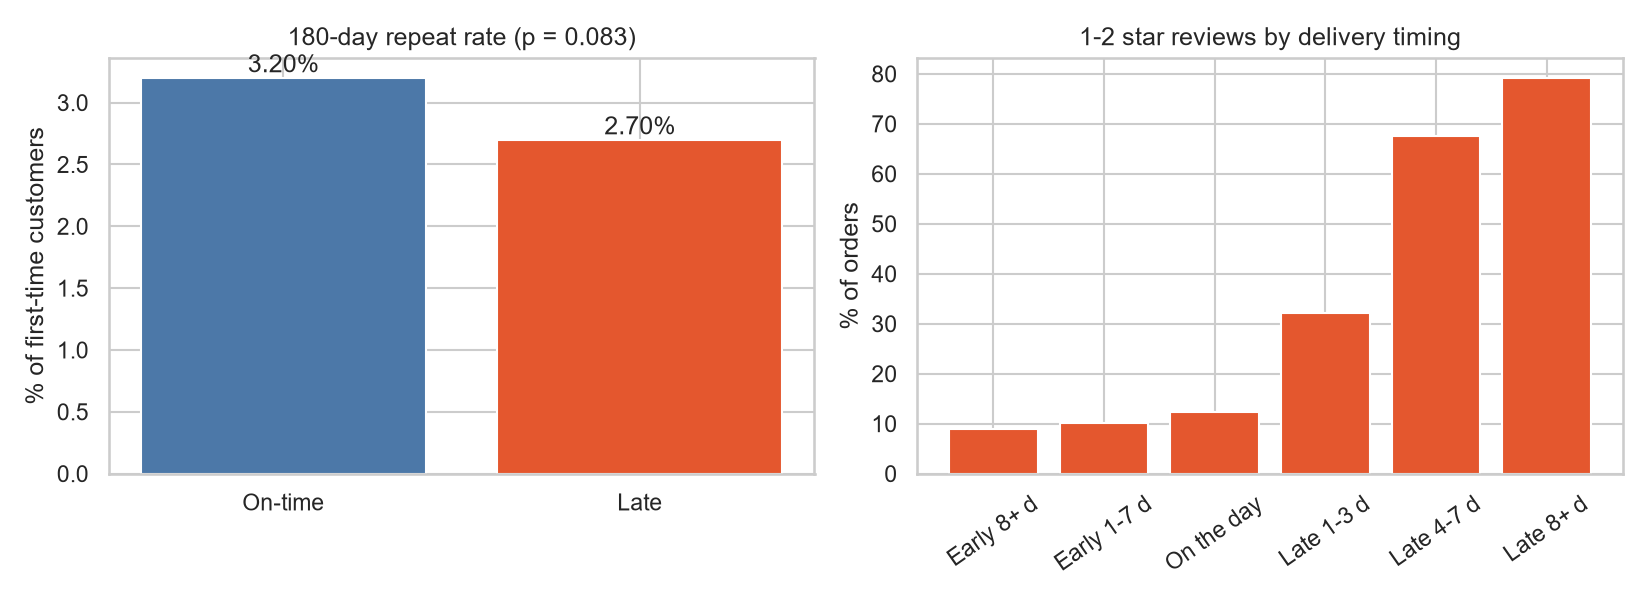
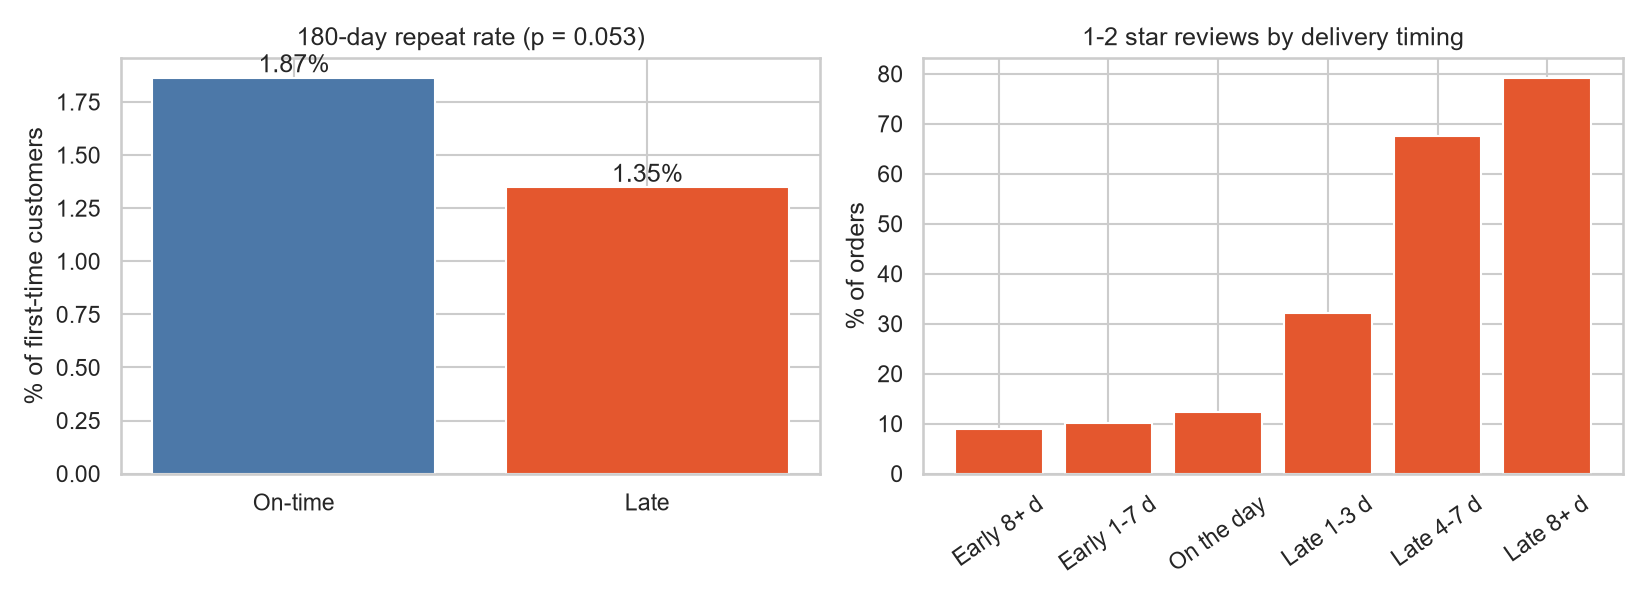
Fix repeat-purchase outcome: measure from first delivery; add convergence check and caveats

diff --git a/notebooks/04_delivery_impact.py b/notebooks/04_delivery_impact.py
@@ -16,7 +16,7 @@
 # %%
 import os, json, pathlib, numpy as np, pandas as pd, matplotlib; matplotlib.use("Agg")
 import matplotlib.pyplot as plt, seaborn as sns, scipy.stats as st
-import statsmodels.api as sm, statsmodels.formula.api as smf
+import statsmodels.formula.api as smf
 from statsmodels.stats.proportion import proportions_ztest, confint_proportions_2indep
 
 ROOT = pathlib.Path(__file__).resolve().parents[1]
@@ -56,9 +56,19 @@ def fmt_p(p):
 # %%
 rev = load("mart_delivery_reviews")
 rep = load("mart_delivery_repeat")
+def to_bool(s: pd.Series) -> pd.Series:
+    """Accept real booleans or 'true'/'false' text (CSV round trips); refuse anything else instead of guessing."""
+    if s.dtype == bool or str(s.dtype) == "boolean":
+        return s.astype(bool)
+    mapped = s.astype(str).str.strip().str.lower().map({"true": True, "false": False})
+    if mapped.isna().any():
+        raise ValueError(f"column {s.name!r} has values that are not true/false")
+    return mapped.astype(bool)
+
+
 for df, cols in ((rev, ["is_late", "is_low_review"]), (rep, ["is_late", "repeat_180d"])):
     for c in cols:
-        df[c] = df[c].astype(bool)
+        df[c] = to_bool(df[c])
 
 assert rep["customer_unique_id"].is_unique, "repeat table must have one row per person"
 assert rev["review_score"].between(1, 5).all(), "review scores must be 1-5"
@@ -124,14 +134,15 @@ print(f"Adjusted odds ratio for late delivery: {orr:.2f} (95% CI {olo:.2f}-{ohi:
 
 # Sensitivity: lateness clusters in a few bad months (e.g. Mar 2018), so also control for purchase month.
 m["purchase_month"] = pd.to_datetime(m.purchased_at).dt.strftime("%Y-%m")
-logit_m = smf.logit("y ~ late_i + log_value + C(state_grp) + C(purchase_month)", data=m).fit(disp=0)
+# BFGS, not Newton: one month has zero repeat events, which stops Newton's method from converging.
+logit_m = smf.logit("y ~ late_i + log_value + C(state_grp) + C(purchase_month)", data=m).fit(disp=0, method="bfgs", maxiter=2000)
+assert logit.mle_retvals["converged"] and logit_m.mle_retvals["converged"], "logistic regression did not converge"
 orr_m = float(np.exp(logit_m.params["late_i"])); mlo, mhi = np.exp(logit_m.conf_int().loc["late_i"])
 out["logit_adjusted_month"] = dict(odds_ratio_late=orr_m, ci_low=float(mlo), ci_high=float(mhi), p=float(logit_m.pvalues["late_i"]))
 print(f"Adjusted OR incl. purchase month: {orr_m:.2f} (95% CI {mlo:.2f}-{mhi:.2f}) | {fmt_p(logit_m.pvalues['late_i'])}")
 
 # Power: smallest repeat-rate gap this sample could detect (80% power, alpha 5%, two-sided).
 from statsmodels.stats.power import NormalIndPower
-from statsmodels.stats.proportion import proportion_effectsize
 p_base = t2["rate_a"]
 h = NormalIndPower().solve_power(effect_size=None, nobs1=len(lt), ratio=len(ot) / len(lt), alpha=ALPHA, power=0.8, alternative="two-sided")
 p_detect = float(np.sin((2 * np.arcsin(np.sqrt(p_base)) - h) / 2) ** 2)
@@ -205,6 +216,7 @@ Source: notebooks/04_delivery_impact.py. Do not edit by hand, re-run instead.
 - Minimum detectable repeat-rate gap (80% power): {(p_base - p_detect)*100:.2f} pp
 - Low-review share: late {t1['rate_a']:.1%} vs on-time {t1['rate_b']:.1%}, {fmt_p(t1['p'])}
 - Revenue at stake: R${est:,.0f} over {months:.1f} months (range R${low:,.0f} to R${high:,.0f}); all amounts in Brazilian reais.
+  {"Observational data: an association, not proven causation." if sig else "NOT SIGNIFICANT (the CI of the gap includes 0): illustration only, do NOT put this figure on the resume as a finding."}
 
 ## Draft resume bullet (check it against the numbers above before using)
 {line}

diff --git a/scripts/load_raw.py b/scripts/load_raw.py
@@ -60,7 +60,8 @@ def main() -> None:
         # dtype=str keeps the raw layer faithful (no silent type guessing);
         # utf-8-sig strips a byte-order mark if a header has one;
         # pandas handles the multi-line quoted text in the reviews file.
-        df = pd.read_csv(path, dtype=str, encoding="utf-8-sig")
+        # keep_default_na=False: text such as "NA" or "null" stays as text; only truly empty cells become NULL.
+        df = pd.read_csv(path, dtype=str, encoding="utf-8-sig", keep_default_na=False, na_values=[""])
         df.columns = [c.strip() for c in df.columns]
 
         job_config = bigquery.LoadJobConfig(

diff --git a/memo.md b/memo.md
@@ -3,32 +3,32 @@
 **To:** Olist operations and growth leads  **From:** Arya Shah  **Data:** Olist orders, Jan 2017 to Aug 2018 (R$)
 
 ## Bottom line
-Late delivery strongly damages reviews (62.4% of late orders get 1-2 stars vs 9.2% on-time), but I found **no statistically significant effect on repeat purchase** (2.70% vs 3.20%, p = 0.083). The revenue at stake is small and not distinguishable from zero (R$2,392, range R$0 to R$4,718 over 13.9 months).
+Late delivery strongly damages reviews (62.4% of late orders get 1-2 stars vs 9.2% on-time). Its effect on repeat purchase is **borderline and not statistically significant at the 5% level**: 1.35% of late-delivered customers order again within 180 days of delivery vs 1.87% of on-time ones (p = 0.053). The revenue at stake is small and not distinguishable from zero (R$1,658, range R$0 to R$2,919 over 13.8 months).
 
 ## What I found
 | Question | Result |
 |---|---|
 | Share of delivered orders that arrive late | 6.77% (`01_data_checks`, check 14) |
 | Late vs on-time: 1-2 star reviews | 62.40% vs 9.25% (gap +53.15 pp, 95% CI +51.94 to +54.35), p < 0.001; mean score 2.27 vs 4.29 |
-| Repeat purchase within 180 days: on-time vs late | 3.20% vs 2.70% (gap 0.50 pp, 95% CI -0.07 to 0.99), p = 0.083 |
-| Holds inside the largest state (SP)? After adjustment? | SP only: gap 0.89 pp, p = 0.137. Adjusted odds ratio for late 0.86 (95% CI 0.70 to 1.05), p = 0.137; also controlling for purchase month 0.86 (0.70 to 1.06), p = 0.155. The result stays non-significant in every check. |
-| Does a longer delay hurt more? | For reviews, yes: 1-2 star share rises from 32.1% (1-3 days late) to 67.6% (4-7 days) to 79.3% (8+ days). For repeat purchase there is no clean pattern (3.18%, 2.15%, 2.74%). |
-| Was the test able to detect a gap? | Only gaps of about 0.77 pp or more (80% power). The observed 0.50 pp gap is below that, so "not significant" means "cannot tell", not "no effect". |
+| Repeat purchase within 180 days of first delivery: on-time vs late | 1.87% (926 of 49,642) vs 1.35% (36 of 2,668); gap 0.52 pp, 95% CI -0.01 to 0.91, p = 0.053 |
+| Holds inside the largest state (SP)? After adjustment? | SP only: gap 0.59 pp, p = 0.270. Adjusted odds ratio for late 0.74 (95% CI 0.53 to 1.04), p = 0.079; also controlling for purchase month 0.78 (0.56 to 1.10), p = 0.156. The direction is consistent (late customers repeat less) but no check reaches significance. |
+| Does a longer delay hurt more? | Reviews: yes, 1-2 star share rises from 32.1% (1-3 days late) to 67.6% (4-7) to 79.3% (8+). Repeat rate also falls with lateness (1.52%, 1.37%, 1.22% vs about 1.87% for on-time or early), though this is descriptive and not tested for trend. |
+| Was the test able to detect a gap? | Only gaps of about 0.68 pp or more (80% power). The observed 0.52 pp gap is below that, so "not significant" means "cannot tell", not "no effect". |
 
-Context: only 3.04% of customers ever ordered a second time (2,887 of 94,990), and 6.99% of the 56,154 first-time customers in the test received a late first order (3,924 people).
+Context: 3.04% of customers ever placed a second order (2,887 of 94,990). In the repeat test, 5.10% of the 52,310 first-time customers (2,668 people) received a late first delivery.
 
 ## What it is worth
-Late first-time customers 3,924 x repeat gap 0.50 pp x average repeat order R$121.47 = **R$2,392** over 13.9 months (range R$0 to R$4,718; the lower bound is floored at zero because the CI includes zero).
+Late first-time customers 2,668 x repeat gap 0.52 pp x average repeat order R$120.40 = **R$1,658** over 13.8 months (range R$0 to R$2,919; the lower bound is floored at zero because the CI includes zero).
 
 Caveat: this is observational data, so the gap is an association, not proof that lateness caused it. The gap is also not statistically significant, so treat this figure as an upper-end illustration, not a finding.
 
 ## Recommendations
 1. **Fix the delivery promise where it is breaking.** Action: review carrier performance and estimate accuracy in the worst months (on-time rate fell to 81.0% in March 2018, 85.9% in February 2018 and 87.6% in November 2017, against 93% to 99% in most other months). Metric: monthly on-time rate and the share of 1-2 star reviews. Supported by: the review test (p < 0.001) and the monthly funnel.
 2. **Intervene on orders that are 4 or more days late.** Action: proactive messaging or a goodwill gesture for these orders before the customer reviews. Metric: 1-2 star share among late orders. Supported by: dose-response (32.1% at 1-3 days late, 67.6% at 4-7, 79.3% at 8+).
-3. **Do not justify retention spend on delivery alone; test it.** Action: run a randomised test of a goodwill gesture on late orders and measure 180-day repeat purchase. Metric: repeat rate. Supported by: the non-significant repeat result (p = 0.083), an underpowered observational test (minimum detectable gap 0.77 pp), and the low baseline repeat rate (3.04% of customers).
+3. **Do not justify retention spend on delivery alone; test it.** Action: run a randomised test of a goodwill gesture on late orders and measure 180-day repeat purchase. Metric: repeat rate. Supported by: the borderline, non-significant repeat result (p = 0.053), an underpowered observational test (minimum detectable gap 0.68 pp), and the very low baseline repeat rate (1.84% within 180 days of delivery).
 
 ## Method, in four lines
 - Customer = `customer_unique_id`. Late = delivered on a later calendar day than the estimate.
-- Repeat test: one row per person (first delivered order), outcome = another order within 180 days; cohort cut off so everyone had 180 days of follow-up.
+- Repeat test: one row per person (first valid order, if delivered); outcome = another valid order placed after that delivery and within 180 days of it; first orders delivered on or before 2018-03-04 so everyone had 180 days of follow-up.
 - Two-proportion z-test, 95% CI on the gap (Newcombe), checked in the largest state and with logistic regression (state, basket value, purchase month).
 - Money is Brazilian reais, item price only (no freight).

diff --git a/README.md b/README.md
@@ -14,8 +14,8 @@
 - **Fulfilment funnel** (`02a`, `02b`): 99,092 orders placed; 97.09% reached delivery. The biggest drop is at the carrier handover (1,593 orders lost, 98.39% step conversion). Median purchase-to-delivery is 10.2 days (p90 23.1 days).
 - **Cohort retention** (`03a`, `03b`): 94,990 customers, of whom 2,887 (3.04%) ordered more than once. Repeat buying is rare in this dataset.
 - **Late delivery vs reviews** (`04`): 62.40% of late orders got 1-2 stars vs 9.25% of on-time orders (p < 0.001; 95,560 orders).
-- **Late delivery vs repeat purchase** (`04`): 180-day repeat rate 2.70% (late) vs 3.20% (on-time), gap 0.50 pp, 95% CI -0.07 to 0.99, p = 0.083 (56,154 people). **No statistically significant difference.** Adjusted odds ratio 0.86 (95% CI 0.70 to 1.05); still non-significant when controlling for purchase month (p = 0.155). The test could only detect gaps of about 0.77 pp or more.
-- **Revenue at stake** (`04`): R$2,392 over 13.9 months, range R$0 to R$4,718. Observational data and a non-significant gap, so this is an upper-end illustration, not a proven loss.
+- **Late delivery vs repeat purchase** (`04`): repeat rate within 180 days of first delivery is 1.35% (late) vs 1.87% (on-time), gap 0.52 pp, 95% CI -0.01 to 0.91, p = 0.053 (52,310 people). **Borderline, not statistically significant at the 5% level.** Adjusted odds ratio 0.74 (95% CI 0.53 to 1.04); 0.78 (0.56 to 1.10, p = 0.156) when also controlling for purchase month. The repeat rate falls as lateness grows (1.52% for 1-3 days late, 1.22% for 8+), but the test could only detect gaps of about 0.68 pp or more.
+- **Revenue at stake** (`04`): R$1,658 over 13.8 months, range R$0 to R$2,919. Observational data and a non-significant gap, so this is an upper-end illustration, not a proven loss.
 
 ## Pipeline
 
@@ -84,5 +84,5 @@ shoppulse/
 | Funnel stage reached | Cumulative: an order that reached a later stage counts as having passed the earlier ones. |
 | Revenue | Sum of item `price` (excludes freight and instalment interest). |
 | Valid order | Status not `canceled` or `unavailable`. |
-| Repeat purchase | Another valid order within 180 days of a person's first delivered order; first orders cut off 180 days before the end of the data so everyone had full follow-up. |
+| Repeat purchase | Another valid order placed after a person's first order was delivered, within 180 days of that delivery (an order placed before delivery cannot be a reaction to it). First orders delivered on or before 2018-03-04, so everyone had full follow-up. |
 | RFM | Recency and Monetary in quintiles (5 = best); Frequency is a rule (1 / 2 / 3+) because almost everyone orders only once (3.04% of customers ordered twice or more, Q1 in 03). |

diff --git a/results/04_resume_numbers.md b/results/04_resume_numbers.md
@@ -2,14 +2,15 @@
 
 Source: notebooks/04_delivery_impact.py. Do not edit by hand, re-run instead.
 
-- Repeat-purchase test: p = 0.083; repeat rate on-time 3.20% vs late 2.70% (gap 0.50 pp, 95% CI -0.07 to 0.99).
-- Relative drop in repeat buyers: 15.7%
-- Robustness (SP only): gap 0.89 pp, p = 0.137
-- Adjusted odds ratio (late): 0.86 (95% CI 0.70-1.05)
-- Adjusted odds ratio incl. purchase month: 0.86 (95% CI 0.70-1.06), p = 0.155
-- Minimum detectable repeat-rate gap (80% power): 0.77 pp
+- Repeat-purchase test: p = 0.053; repeat rate on-time 1.87% vs late 1.35% (gap 0.52 pp, 95% CI -0.01 to 0.91).
+- Relative drop in repeat buyers: 27.7%
+- Robustness (SP only): gap 0.59 pp, p = 0.270
+- Adjusted odds ratio (late): 0.74 (95% CI 0.53-1.04)
+- Adjusted odds ratio incl. purchase month: 0.78 (95% CI 0.56-1.10), p = 0.156
+- Minimum detectable repeat-rate gap (80% power): 0.68 pp
 - Low-review share: late 62.4% vs on-time 9.2%, p < 0.001
-- Revenue at stake: R$2,392 over 13.9 months (range R$0 to R$4,718); all amounts in Brazilian reais.
+- Revenue at stake: R$1,658 over 13.8 months (range R$0 to R$2,919); all amounts in Brazilian reais.
+  NOT SIGNIFICANT (the CI of the gap includes 0): illustration only, do NOT put this figure on the resume as a finding.
 
 ## Draft resume bullet (check it against the numbers above before using)
-Tested whether late deliveries lower repeat purchases on 56,154 first-time customers (two-proportion z-test, p = 0.083): no statistically significant difference at the 5% level.
+Tested whether late deliveries lower repeat purchases on 52,310 first-time customers (two-proportion z-test, p = 0.053): no statistically significant difference at the 5% level.
